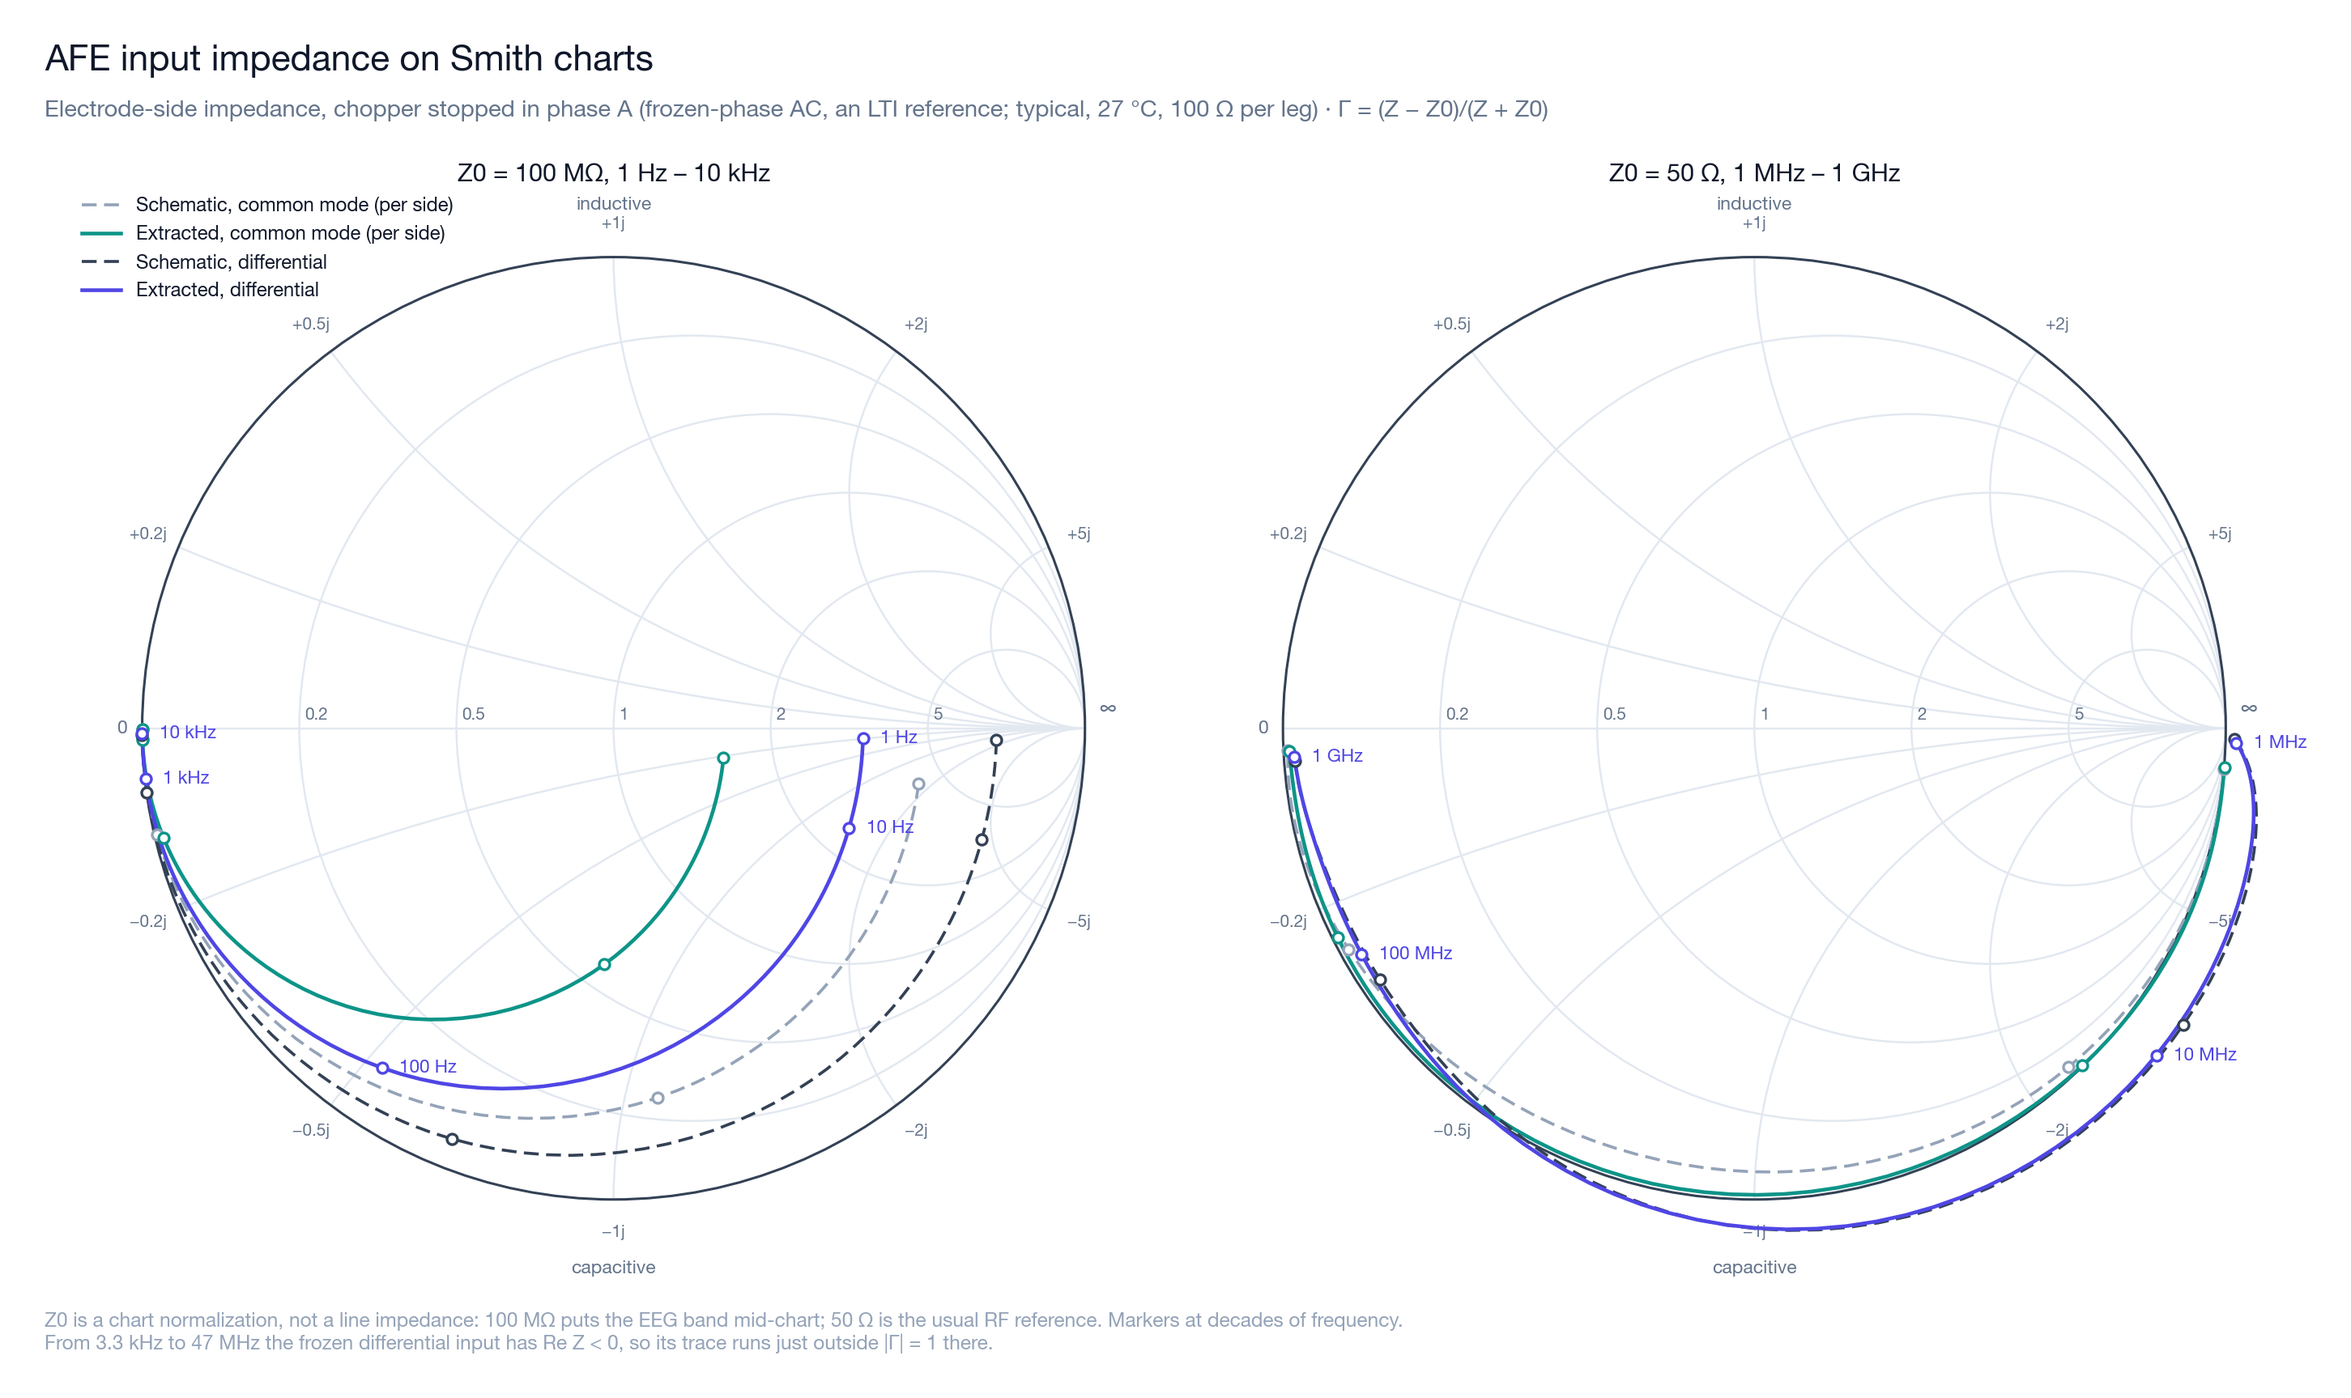
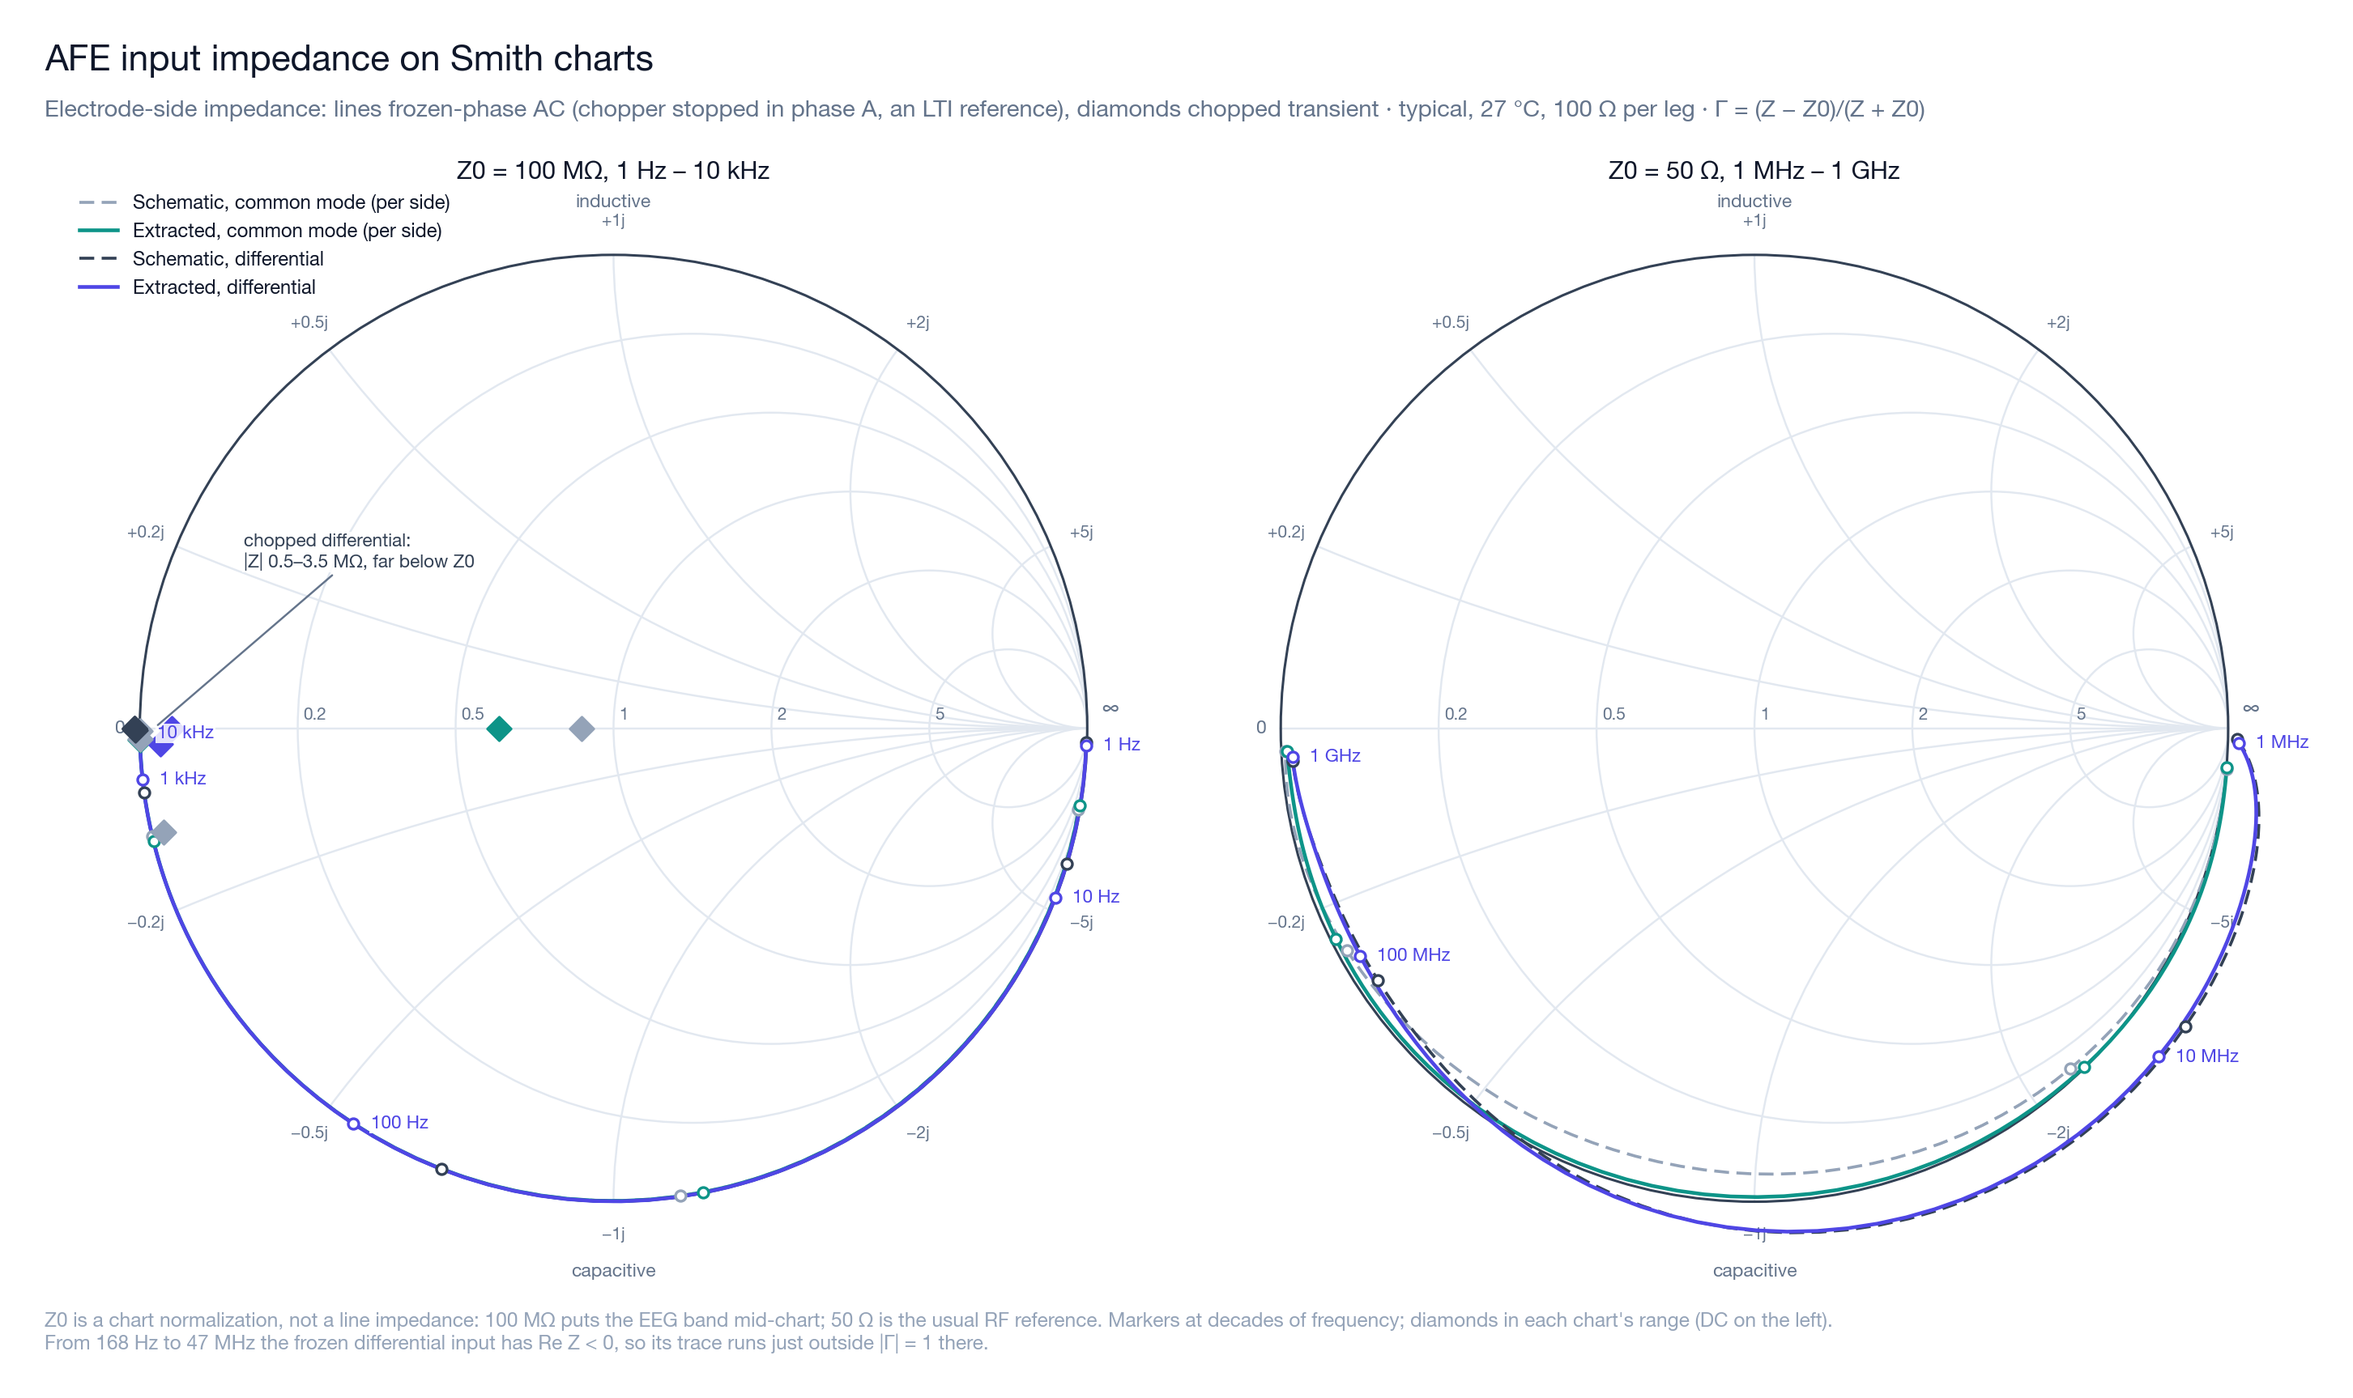
GF180 可視化：図 20・23・24 を 4 回目のチップ（9b5f495a）の抽出と gmin 1e-15 のデータで描き直し、チョッパ込みの過渡の点（菱形）を足した。図 20 はブランキングありの過渡（回路図 299.07、抽出 298.94）を 3 つの枠すべてに置き、高調波の和より 4.0／4.7 % 高いことを注に書いた。図 23 は Z0 = 100 MΩ の図でチョッパ込みの差動（0.5〜3.5 MΩ）が Γ ≈ −1 に集まることを書き添えた。図 24 はチョッパを止めた AC の 1 Hz の値（gmin の漏れを除いて数 GΩ）が入るよう縦軸を広げ、回路図の差動の負の抵

diff --git a/first_tapeout_eeg/gf180/tapeout/viz/figs_perf.py b/first_tapeout_eeg/gf180/tapeout/viz/figs_perf.py
@@ -373,7 +373,8 @@ def fig_afe_baseband():
                  "frozen-phase transfer · typical, 27 °C",
                  note="G(f) = Σ_k odd 4/(πk)² · [H(k·fch + f) + H*(k·fch − f)], fch = 128 kHz, k ≤ 7811. Dashed: with the chopper-period "
                       "average that the end-to-end checks apply (adds sinc(f/fch)).\nBlanking is not modelled: the sum counts the "
-                      "settling after each chopper edge, which the 7-MCLK blanking hides, so the chip's gain is a few per cent higher.")
+                      "settling after each chopper edge, which the 7-MCLK blanking hides. Diamonds: chopped transient runs with the "
+                      "blanking, 4.0 % (schematic) and 4.7 % (extracted) above the sum, at the frozen-phase in-band gain.")
     axs = fig.subplots(3, 1, sharex=True, gridspec_kw=dict(height_ratios=[1.1, 1.1, 0.9]))
     for net in ("sch", "pex"):
         r = rcsv(f"afe_baseband_{net}_A")
@@ -391,8 +392,11 @@ def fig_afe_baseband():
         for net in ("sch", "pex"):
             rr = [x for x in r if x.get("netlist", net) == net]
             if rr:
-                axs[0].scatter(col(rr, "f_hz"), col(rr, "gain"), s=40, marker="D", facecolor="white", edgecolor=NET[net]["color"],
-                               linewidth=1.4, zorder=4, label=f"{NET[net]['label']}: chopped transient with blanking")
+                dia = dict(s=40, marker="D", facecolor="white", edgecolor=NET[net]["color"], linewidth=1.4, zorder=4)
+                gt = col(rr, "gain_db")
+                axs[0].scatter(col(rr, "f_hz"), 10 ** (gt / 20), label=f"{NET[net]['label']}: chopped transient with blanking", **dia)
+                axs[1].scatter(col(rr, "f_hz"), gt - gt[0], **dia)
+                axs[2].scatter(col(rr, "f_hz"), col(rr, "phase_deg"), **dia)
     for ax in axs:
         logf(ax, 0.1, 64e3)
         band(ax, label=ax is axs[0])
@@ -401,7 +405,8 @@ def fig_afe_baseband():
     axs[0].legend(loc="lower left", fontsize=8)
     axs[1].set_ylim(-4.5, 0.5)
     axs[1].set_ylabel("|G| relative to 0.1 Hz (dB)")
-    axs[1].text(0.15, -3.9, "solid: harmonic sum · dashed: with the chopper-period average", fontsize=7.8, color=MUTED)
+    axs[1].text(0.15, -3.9, "solid: harmonic sum · dashed: with the chopper-period average · diamonds: transient, relative to its "
+                "lowest frequency", fontsize=7.8, color=MUTED)
     axs[2].set_ylim(-32, 3)
     axs[2].set_ylabel("Phase of G (°)")
     axs[2].set_xlabel("Frequency (Hz)")
@@ -556,12 +561,13 @@ def neg_re(zd, net):
 def fig_zin_smith():
     zd, tr = zin_data()
     lo, hi = neg_re(zd, "pex")
+    lo_s = f"{lo:.0f} Hz" if lo < 1e3 else f"{lo / 1e3:.1f} kHz"
     fig = figure(13.0, 7.6, "AFE input impedance on Smith charts",
-                 "Electrode-side impedance, chopper stopped in phase A (frozen-phase AC, an LTI reference; typical, 27 °C, 100 Ω per leg) · "
-                 "Γ = (Z − Z0)/(Z + Z0)",
+                 "Electrode-side impedance: lines frozen-phase AC (chopper stopped in phase A, an LTI reference), diamonds chopped "
+                 "transient · typical, 27 °C, 100 Ω per leg · Γ = (Z − Z0)/(Z + Z0)",
                  note="Z0 is a chart normalization, not a line impedance: 100 MΩ puts the EEG band mid-chart; 50 Ω is the usual RF reference. "
-                      f"Markers at decades of frequency.\nFrom {lo / 1e3:.1f} kHz to {hi / 1e6:.0f} MHz the frozen differential input has Re Z < 0, "
-                      "so its trace runs just outside |Γ| = 1 there.")
+                      f"Markers at decades of frequency; diamonds in each chart's range (DC on the left).\nFrom {lo_s} to {hi / 1e6:.0f} MHz "
+                      "the frozen differential input has Re Z < 0, so its trace runs just outside |Γ| = 1 there.")
     axs = fig.subplots(1, 2)
     views = ((axs[0], 100e6, "Z0 = 100 MΩ, 1 Hz – 10 kHz", (1, 1e4), (1, 10, 100, 1e3, 1e4)),
              (axs[1], 50.0, "Z0 = 50 Ω, 1 MHz – 1 GHz", (1e6, 1e9), (1e6, 1e7, 1e8, 1e9)))
@@ -579,10 +585,19 @@ def fig_zin_smith():
                 ax.scatter([gm.real], [gm.imag], s=18, facecolor="white", edgecolor=ZSTY[key]["color"], linewidth=1.1, zorder=4)
                 if key == ("pex", "dm"):
                     ax.annotate(hz(fm) + ("Hz" if fm >= 1e3 else " Hz"), (gm.real, gm.imag), textcoords="offset points", xytext=(7, -2), fontsize=7.4,
-                                color=ACCENT)
+                                color=ACCENT, zorder=6, bbox=dict(fc="white", ec="none", pad=0.6, alpha=0.85))
+        dm = []
         for net, mode, f, z in tr:
-            g = gamma(z, z0)
-            ax.scatter([g.real], [g.imag], s=46, marker="D", color=ZSTY[(net, mode)]["color"], zorder=5)
+            if (f0 * 0.999 <= f <= f1 * 1.001) or (f == 0 and f0 <= 1):
+                g = gamma(z, z0)
+                ax.scatter([g.real], [g.imag], s=46, marker="D", color=ZSTY[(net, mode)]["color"], zorder=5)
+                if mode == "dm":
+                    dm.append((abs(z), g))
+        if dm and z0 > 1e6:
+            za, zb = min(a for a, _ in dm), max(a for a, _ in dm)
+            ax.annotate(f"chopped differential:\n|Z| {za / 1e6:.1f}–{zb / 1e6:.1f} MΩ, far below Z0", xy=(-0.97, 0.0), xytext=(-0.78, 0.34),
+                        fontsize=7.4, color=INK2, zorder=6, arrowprops=dict(arrowstyle="-", color=MUTED, lw=0.8),
+                        bbox=dict(fc="white", ec="none", pad=0.6, alpha=0.85))
     axs[0].legend(loc="upper left", bbox_to_anchor=(-0.02, 1.02), fontsize=7.8)
     save(fig, "23_zin_smith")
 
@@ -590,10 +605,13 @@ def fig_zin_smith():
 def fig_zin_bode():
     zd, tr = zin_data()
     fig = figure(12.6, 7.8, "AFE input impedance against frequency",
-                 "Electrode side, chopper stopped in phase A (frozen-phase AC, an LTI reference) · typical, 27 °C, 100 Ω per leg",
+                 "Electrode side: lines frozen-phase AC (chopper stopped in phase A, an LTI reference), diamonds chopped transient · "
+                 "typical, 27 °C, 100 Ω per leg",
                  note="Differential: Z = (V_ELP − V_ELN)/I_ELP with a differential drive; common mode: V_ELP/I_ELP per side with both "
                       "electrodes driven. The chopped input's switched-capacitor\naction is missing from the frozen-phase circuit; "
-                      "chopped values come from transient runs (diamonds, where available).")
+                      "chopped values come from transient runs (diamonds; DC drawn at the left edge). The schematic's differential phase "
+                      "near −180° is a negative resistance (−578 kΩ: the Cpf trim 8\ncancels the switched-capacitor current 1 % too much); "
+                      "the extracted chip is +3.5 MΩ.")
     axs = fig.subplots(2, 1, sharex=True, gridspec_kw=dict(height_ratios=[1.4, 1]))
     for key in (("sch", "dm"), ("pex", "dm"), ("sch", "cm"), ("pex", "cm")):
         f, z = zd[key]
@@ -603,15 +621,19 @@ def fig_zin_bode():
         axs[0].scatter([max(f, 0.3)], [abs(z)], s=46, marker="D", color=ZSTY[(net, mode)]["color"], zorder=5)
         axs[1].scatter([max(f, 0.3)], [np.degrees(np.angle(z))], s=46, marker="D", color=ZSTY[(net, mode)]["color"], zorder=5)
     for ax in axs:
-        logf(ax, 1, 1e9)
+        logf(ax, 0.2 if tr else 1, 1e9)
         band(ax, label=ax is axs[0])
         vmark(ax, FCH, "chopper 128 kHz", 0.98) if ax is axs[0] else ax.axvline(FCH, color=MUTED, lw=0.8, ls=(0, (1, 2)))
     axs[0].set_yscale("log")
-    axs[0].set_ylim(0.5, 3e9)
+    axs[0].set_ylim(0.5, 2e10)
     axs[0].yaxis.set_major_formatter(mticker.FuncFormatter(lambda v, _: (hz(v) if v >= 1e3 else f"{v:g} ") + "Ω"))
     axs[0].set_ylabel("|Z|")
-    axs[0].legend(loc="lower left", fontsize=8)
-    axs[1].set_ylim(-140, 10)
+    h, _ = axs[0].get_legend_handles_labels()
+    if tr:
+        h.append(Line2D([], [], marker="D", ls="", color=MUTED, label="Chopped transient"))
+        axs[0].text(0.3, 2.2e8, "DC", fontsize=7.5, color=MUTED, ha="center", va="bottom")
+    axs[0].legend(handles=h, loc="lower left", fontsize=8)
+    axs[1].set_ylim(-190, 10)
     axs[1].yaxis.set_major_locator(mticker.MultipleLocator(45))
     axs[1].axhline(-90, color=GRID2, lw=0.9)
     axs[1].set_ylabel("Phase of Z (°)")

diff --git a/first_tapeout_eeg/documentation/gf180_viz_20261024.md b/first_tapeout_eeg/documentation/gf180_viz_20261024.md
@@ -47,16 +47,22 @@ gf180/tools/venv310/bin/python gf180/tapeout/viz/figs_perf.py gf180/tapeout/pex 
 | 17 | e2e_effects | E2E で寄生が変えたもの：周期平均の差、相 A／B の差、DAC1 の残差 |
 | 18 | e2e_metrics | E2E の主な値（4 つのネットリスト） |
 | 19 | afe_bode | AFE の増幅器の開ループ利得 A とループ利得 T（チョッパを相 A で止めた形） |
-| 20 | afe_baseband | AFE のチョッパ込みの帯域内の伝達（高調波の和） |
+| 20 | afe_baseband | AFE のチョッパ込みの帯域内の伝達（線は高調波の和、菱形はブランキングありの過渡） |
 | 21 | ota_bode | ADC の OTA1／OTA2 の A と T |
 | 22 | ntf_stf | 変調器の NTF と STF |
-| 23 | zin_smith | AFE の入力インピーダンスの Smith チャート（Z0 = 100 MΩ と 50 Ω） |
-| 24 | zin_bode | AFE の入力インピーダンスの大きさと位相 |
+| 23 | zin_smith | AFE の入力インピーダンスの Smith チャート（Z0 = 100 MΩ と 50 Ω。線はチョッパを止めた AC、菱形はチョッパ込みの過渡） |
+| 24 | zin_bode | AFE の入力インピーダンスの大きさと位相（線はチョッパを止めた AC、菱形はチョッパ込みの過渡） |
 
 ## 読むときの注意
 
-- **入力インピーダンス（23、24）はチョッパを止めた AC 解析で、参考の値。** チョッパのスイッチト・キャパシタの働きが入っていないので、チップの入力インピーダンスそのものではない。チョッパ込みの値は過渡解析で出している最中で、出たら図に菱形で足す。差動の入力は 3.3 kHz〜47 MHz で実部が負になり、Smith チャートでは |Γ| = 1 のすぐ外を通る。Z0 はチャートの正規化のための値で、100 MΩ は EEG の帯域を中ほどに置くため、50 Ω は RF の慣例。
-- **AFE の帯域内の伝達（20）はブランキングを入れていない。** 高調波の和はチョッパの縁ごとの整定を数えるので、ブランキングで隠すチップの利得は数 % 高い（チョッパを止めた形の帯域内の 298.8 に近い）。
+- **入力インピーダンス（23、24）の線はチョッパを止めた AC 解析で、参考の値。** チョッパのスイッチト・キャパシタの働きが入っていないので、チップの入力インピーダンスそのものではない。図 20・23・24 は 10/25 に、4 回目のチップ（9b5f495a）の抽出と ngspice の gmin 1e-15 で描き直した。
+  - チョッパ込みの値は菱形（過渡解析、`gf180/tapeout/pex/runs/viz/afe_zin.csv`）。並列の形にすると、回路図の差動は −578 kΩ ∥ 28.5 pF、最終の抽出の差動は +3.5 MΩ ∥ 36.2 pF、同相は片側 87／61 MΩ ∥ 138／133 pF。
+  - 回路図の差動が負の抵抗になるのは、CPF_TRIM 8 で Cpf の正帰還が Cin のスイッチト・キャパシタの電流を 1 % 打ち消しすぎるため（抽出は 0.2 % 足りない側）。
+  - 線の差動の実部は 168 Hz〜47 MHz（抽出。回路図は 220 Hz〜50 MHz）で負になり、Smith チャートでは |Γ| = 1 のすぐ外を通る。以前の「3.3 kHz から」は、ngspice の既定の gmin（素子の M 倍）の漏れが低い周波数の実部を隠していたため。
+  - Z0 はチャートの正規化のための値で、100 MΩ は EEG の帯域を中ほどに置くため、50 Ω は RF の慣例。チョッパ込みの差動（0.5〜3.5 MΩ）は Z0 = 100 MΩ よりずっと小さいので、左の端（Γ ≈ −1）に集まる。
+- **AFE の帯域内の伝達（20）の線は、ブランキングを入れていない高調波の和。** チョッパの縁ごとの整定を数えるので、回路図 287.2、最終の抽出 284.8 になる。
+  - 菱形のブランキングありの過渡は、回路図 299.07（100 Hz〜16 kHz、50 kHz で 299.57）、最終の抽出 298.94（1 kHz）。和より 4.0／4.7 % 高く、チョッパを止めた形の帯域内の |H|（299.2／298.8）とほぼ同じ。50 kHz まで平らで、位相は 89 ns の遅れと同じ形。
+  - E2E の AFE の利得 291.5（16 kHz）は周期平均の値で、299.11 × sinc(16 kHz × 7.8125 µs) = 291.5 と合う。
 - **E2E（16〜18）は 70 µs の短い窓。** 利得の精度は数 %。相 A／B の差 18.8 mV（抽出）は、AFE のリセットを解いた直後の DC 経路の過渡（時定数 約 140 µs）で、AFE 単体では 2.02 mV p-p まで下がる。
 - **DAC1 の残差の単位は「DAC1 の範囲 = 1」**（1 素子 = 1/31 = 0.032）。図 11 の「ADC のループの残差」も同じ単位（以前の「DAC の段」という書き方を改めた）。
 - 図 11 の AFE の利得 297.9 は ±0.5 mV のチョッパ動作の過渡（200 µs）の値。70 µs の E2E の正弦波では回路図 291.45、最終の抽出 291.36 で、ほぼ同じ。
